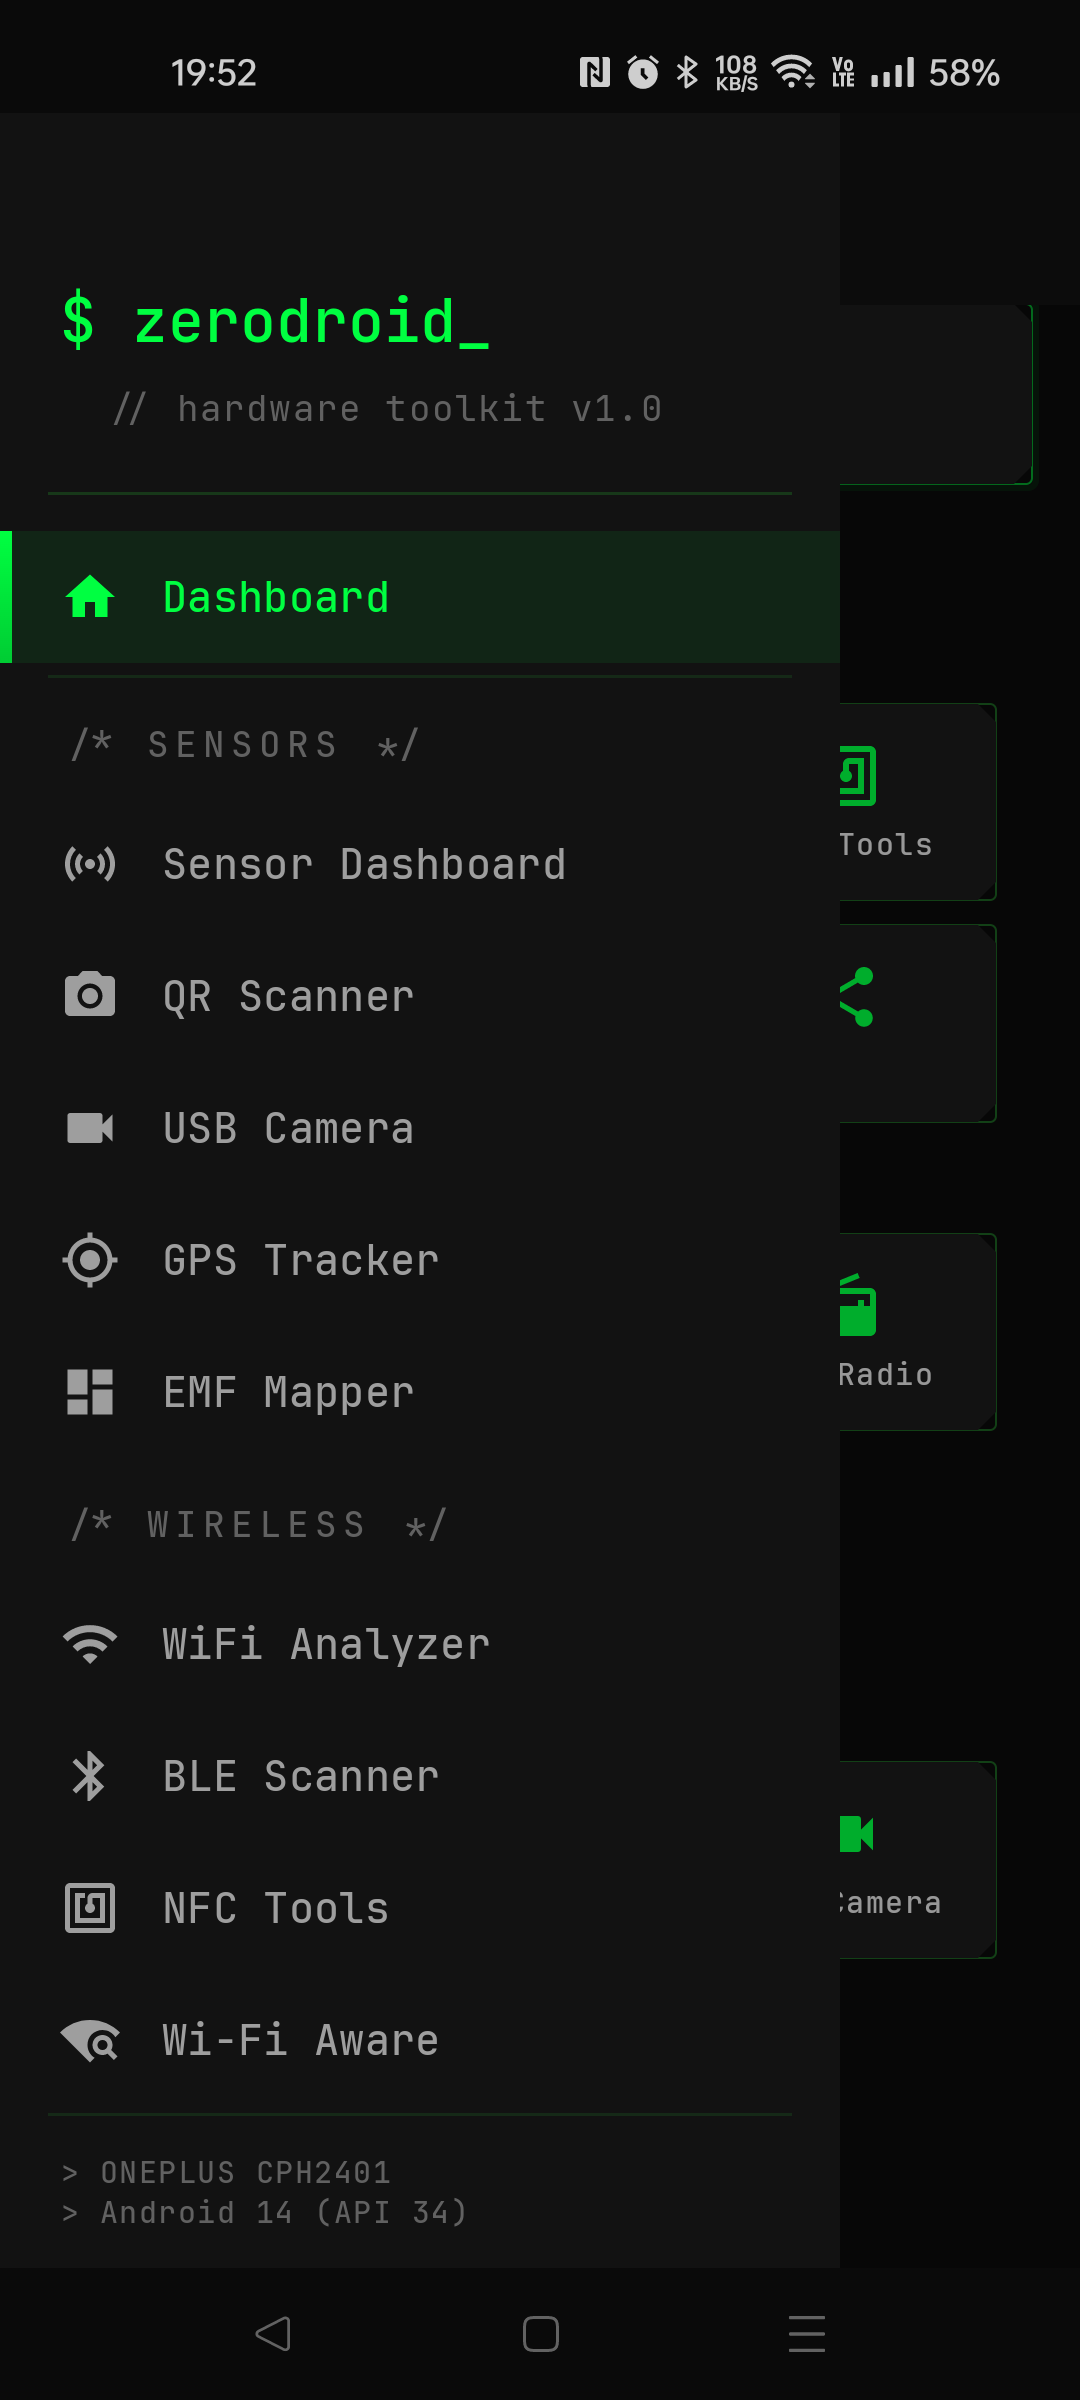
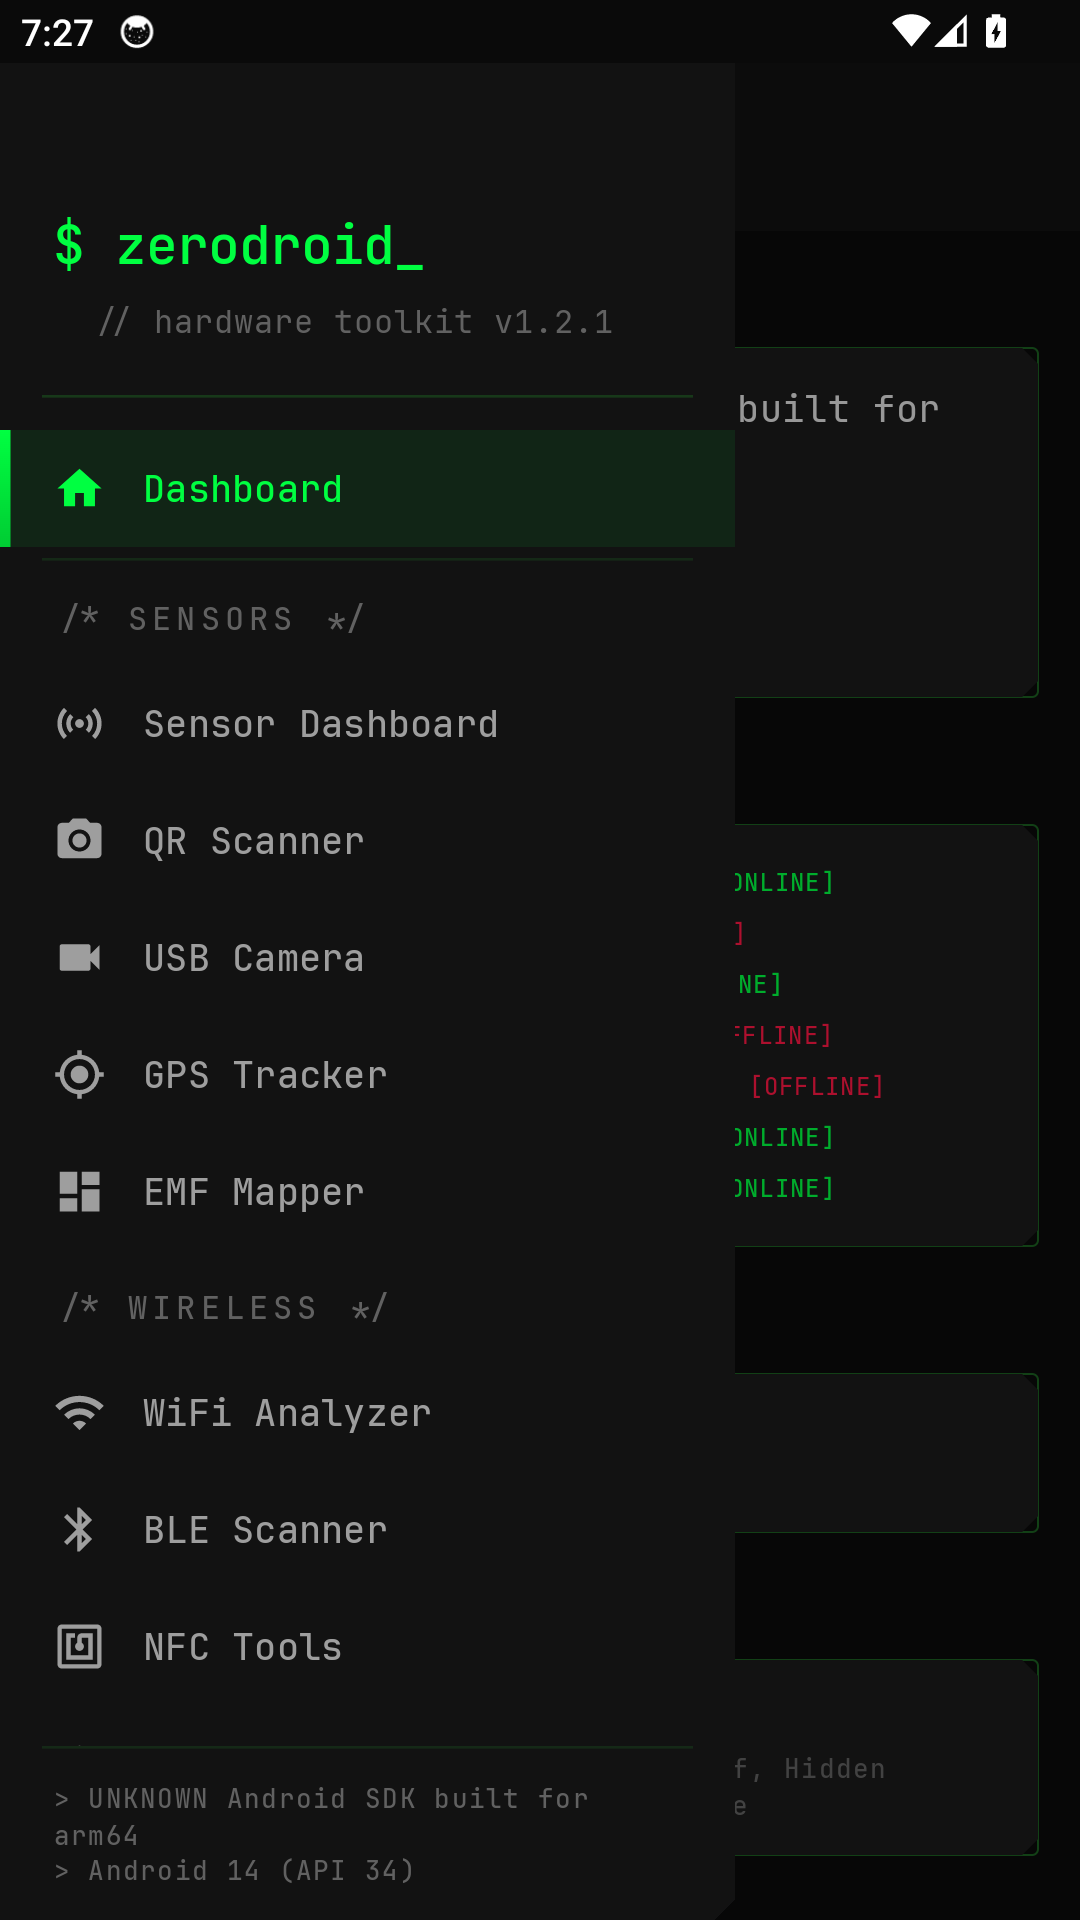
feat: refresh ZeroDroid visual identity (#29)

diff --git a/docs/banner.html b/docs/banner.html
@@ -75,18 +75,27 @@
     <div class="corner bl"></div>
     <div class="corner br"></div>
     <div class="scan"></div>
-    <div class="tag">27 TOOLS · v1.0</div>
+    <div class="tag">29 TOOLS · v1.2.1</div>
 
     <div class="row">
-      <!-- Shield logo -->
-      <svg class="shield" width="150" height="180" viewBox="0 0 150 180" fill="none" xmlns="http://www.w3.org/2000/svg">
-        <path d="M75 6 L140 34 V92 C140 132 112 162 75 174 C38 162 10 132 10 92 V34 Z"
-              fill="#08120c" stroke="#00e676" stroke-width="4"/>
-        <path d="M75 16 L131 40 V90 C131 124 108 150 75 161 C42 150 19 124 19 90 V40 Z"
-              fill="none" stroke="rgba(0,230,118,0.25)" stroke-width="2"/>
-        <text x="50%" y="58%" text-anchor="middle" dominant-baseline="middle"
-              font-family="Menlo, monospace" font-size="96" font-weight="800" fill="#00e676">Z</text>
-        <rect x="94" y="104" width="14" height="14" fill="#00e676"/>
+      <!-- Shield + wireless logo, matching the Android launcher icon. -->
+      <svg class="shield" width="170" height="190" viewBox="0 0 180 200" fill="none" xmlns="http://www.w3.org/2000/svg" aria-label="ZeroDroid shield and wireless logo">
+        <circle cx="90" cy="105" r="78" stroke="rgba(0,230,118,0.10)" stroke-width="2"/>
+        <circle cx="90" cy="105" r="61" stroke="rgba(0,230,118,0.08)" stroke-width="2"/>
+        <path d="M90 48 L153 70 V116 C153 151 126 174 90 192 C54 174 27 151 27 116 V70 Z"
+              fill="#0d2119" stroke="#00e676" stroke-width="6" stroke-linejoin="round"/>
+        <path d="M90 57 L144 76 V114 C144 143 122 163 90 180 C58 163 36 143 36 114 V76 Z"
+              fill="none" stroke="rgba(38,207,163,0.34)" stroke-width="2"/>
+
+        <!-- Two restrained wireless arcs integrated with the shield crown. -->
+        <path d="M59 43 Q90 16 121 43" stroke="#00e676" stroke-width="8" stroke-linecap="round"/>
+        <path d="M71 51 Q90 34 109 51" stroke="#00e676" stroke-width="7" stroke-linecap="round"/>
+        <circle cx="90" cy="58" r="5" fill="#26cfa3"/>
+
+        <!-- Angular Z monogram. -->
+        <path d="M51 82 H132 L115 99 H68 Z" fill="#00e676"/>
+        <path d="M112 82 H133 L68 154 H47 Z" fill="#00e676"/>
+        <path d="M47 154 H113 L130 137 H64 Z" fill="#00e676"/>
       </svg>
 
       <div class="text">

diff --git a/app/src/main/java/com/abhishek/zerodroid/navigation/DrawerContent.kt b/app/src/main/java/com/abhishek/zerodroid/navigation/DrawerContent.kt
@@ -31,6 +31,7 @@ import androidx.compose.ui.graphics.Brush
 import androidx.compose.ui.graphics.Color
 import androidx.compose.ui.unit.dp
 import androidx.compose.ui.unit.sp
+import com.abhishek.zerodroid.BuildConfig
 import com.abhishek.zerodroid.ui.theme.TerminalGreen
 import com.abhishek.zerodroid.ui.theme.TerminalGreenDim
 import com.abhishek.zerodroid.ui.theme.TextDim
@@ -62,7 +63,7 @@ fun DrawerContent(
                 modifier = Modifier.padding(horizontal = 20.dp, vertical = 8.dp)
             )
             Text(
-                text = "  // hardware toolkit v1.0",
+                text = "  // hardware toolkit v${BuildConfig.VERSION_NAME}",
                 style = MaterialTheme.typography.bodySmall,
                 color = TextDim,
                 modifier = Modifier.padding(horizontal = 20.dp)

diff --git a/README.md b/README.md
@@ -1,5 +1,5 @@
 <p align="center">
-  <img src="docs/banner.png" alt="ZeroDroid — Hardware Security Toolkit" width="100%" />
+  <img src="docs/banner.png" alt="ZeroDroid shield and wireless logo — Hardware Security Toolkit" width="100%" />
 </p>
 
 <h1 align="center">ZeroDroid</h1>
